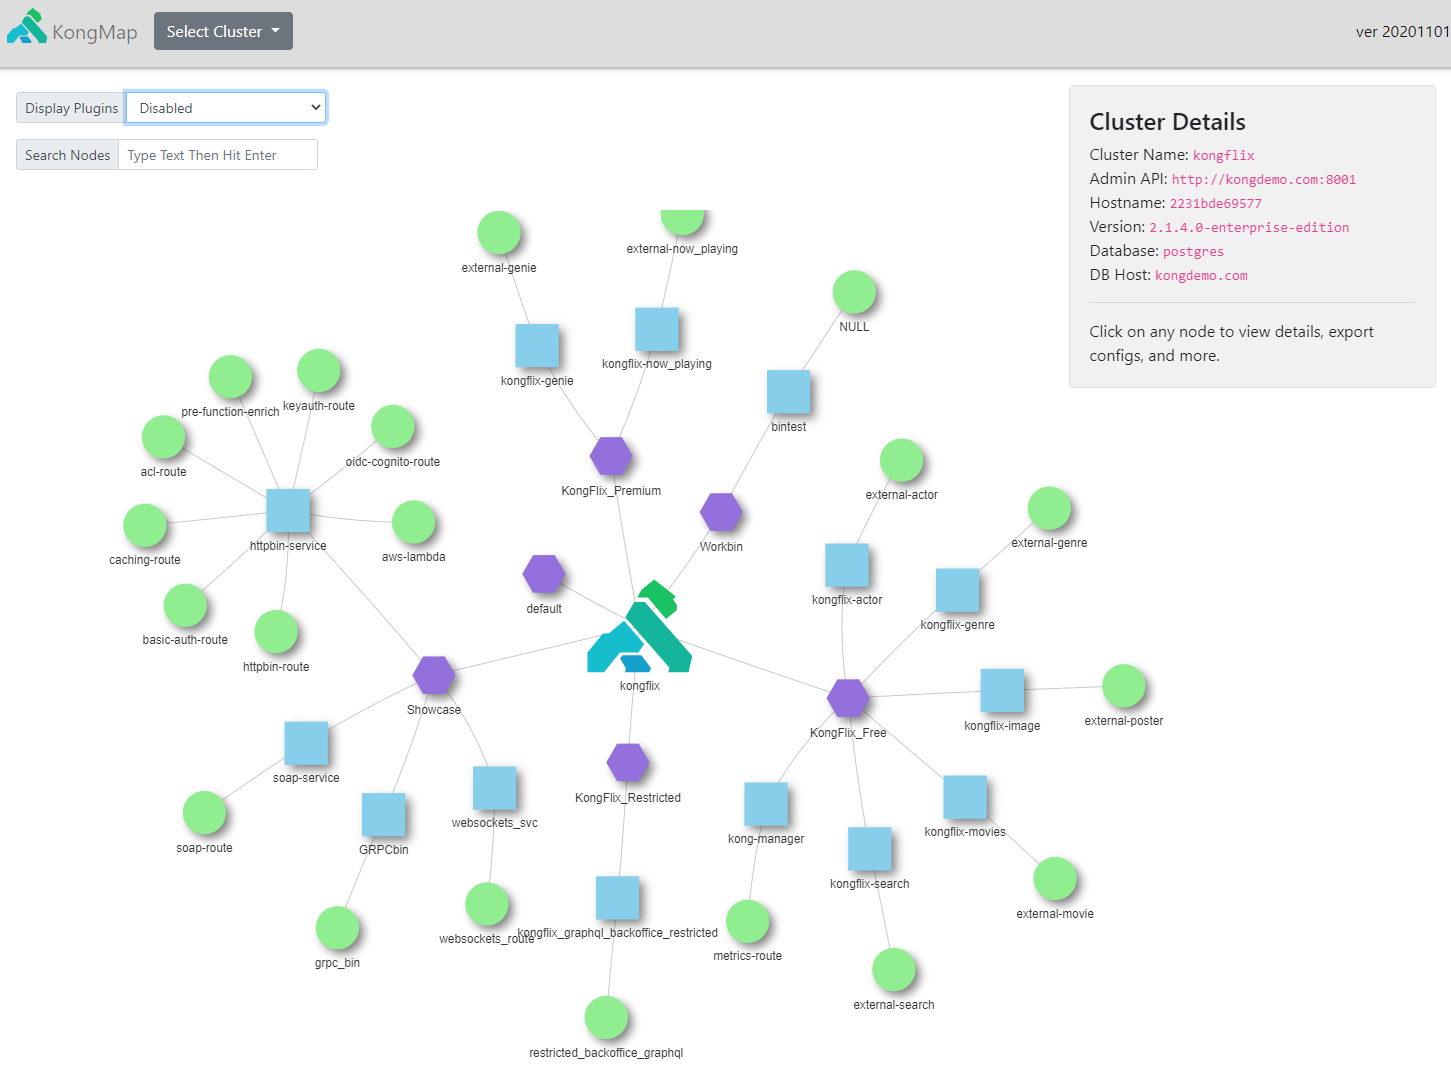
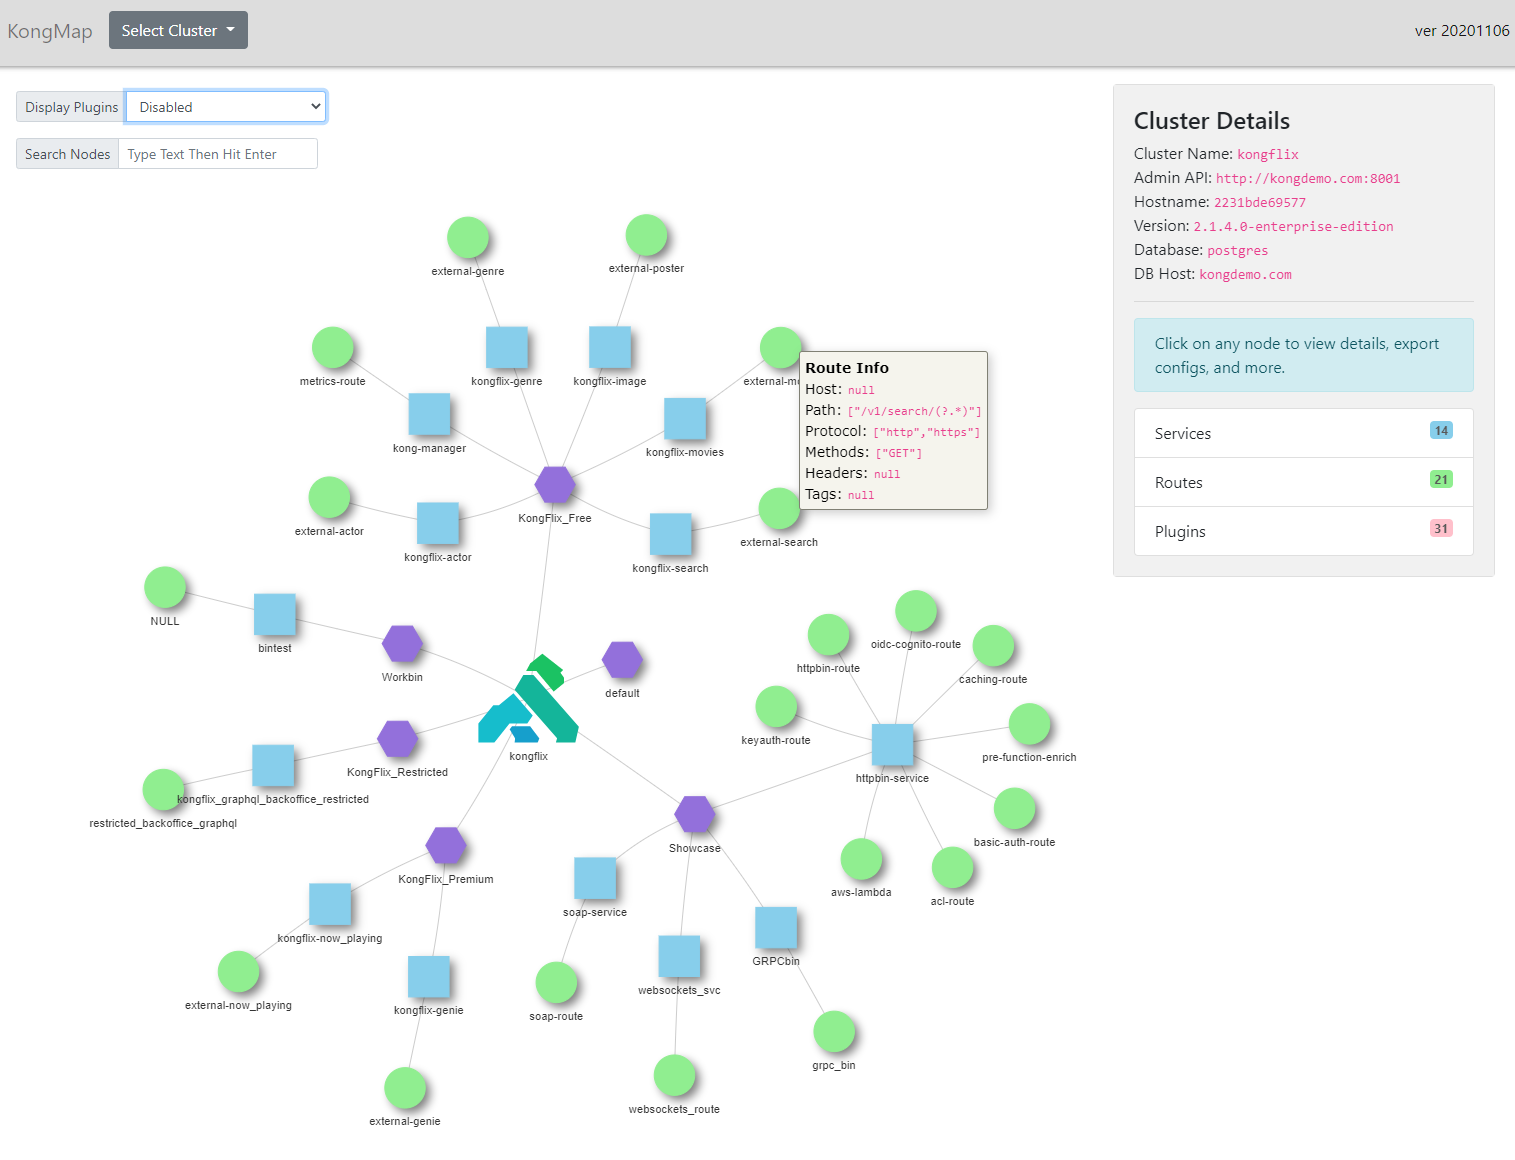
new release

diff --git a/CHANGELOG.md b/CHANGELOG.md
@@ -1,3 +1,12 @@
+## 20201113
+### Added
+- Counts for Kong entities (services, routes, plugins) on Cluster Map cluster entity.
+### Changed
+- Fixed Export Config with ID button function. Both buttons were previously exporting without ID's only.
+### Removed
+- None
+
+
 ## 20201106
 ### Added
 - Ability to edit specific routes, plugins, and services directly from cluster map view. Click on map node
